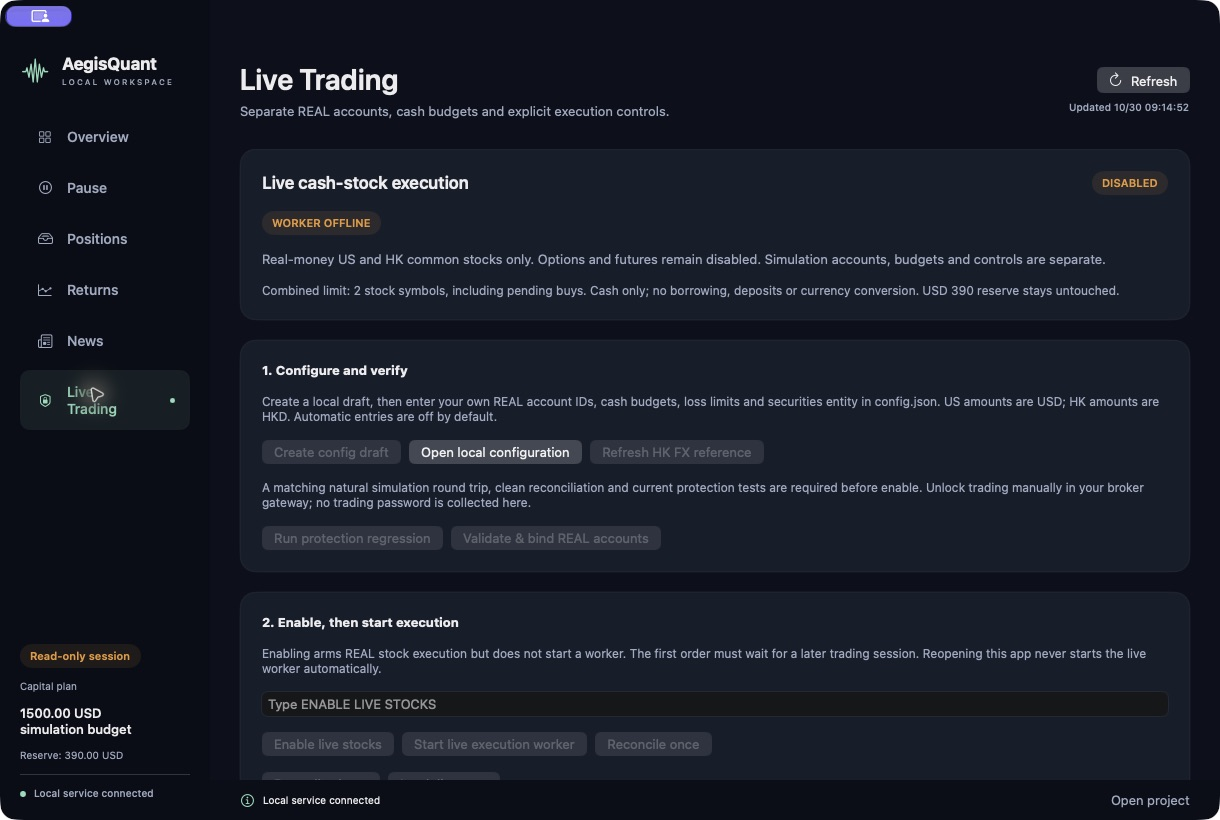
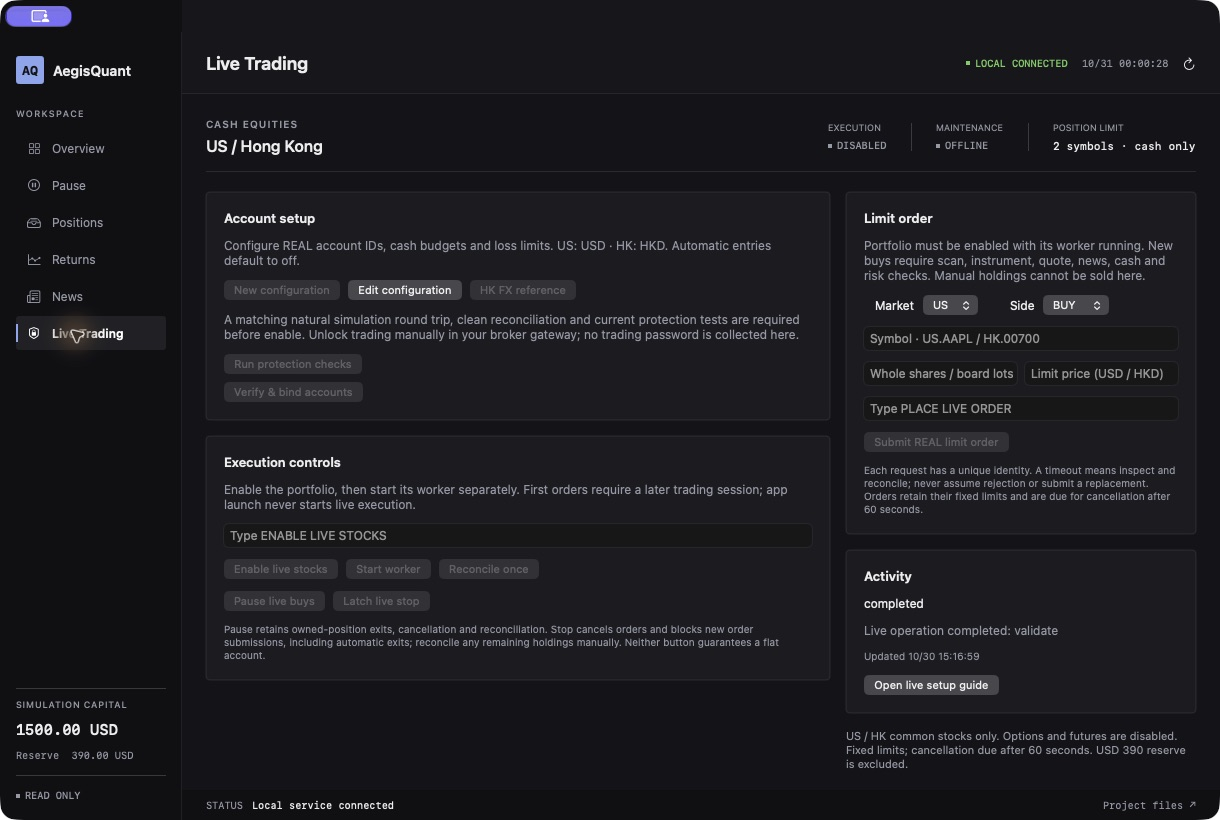
Refine native console into a compact securities workspace

diff --git a/desktop/QuantDesktop.swift b/desktop/QuantDesktop.swift
@@ -2,10 +2,10 @@ import SwiftUI
 import Charts
 import AppKit
 
-let navy = Color(red:0.035,green:0.065,blue:0.105)
-let panel = Color(red:0.075,green:0.115,blue:0.17)
-let mint = Color(red:0.38,green:0.88,blue:0.72)
-let muted = Color(red:0.60,green:0.67,blue:0.76)
+let navy = Color(red:0.075,green:0.080,blue:0.090)
+let panel = Color(red:0.105,green:0.112,blue:0.125)
+let mint = Color(red:0.46,green:0.65,blue:0.94)
+let muted = Color(red:0.57,green:0.60,blue:0.65)
 func string(_ x: Any?) -> String { x as? String ?? "—" }
 func number(_ x: Any?) -> Double { (x as? NSNumber)?.doubleValue ?? 0 }
 func list(_ x: Any?) -> [[String:Any]] { x as? [[String:Any]] ?? [] }
@@ -104,16 +104,17 @@ enum Page: String, CaseIterable {
 
 struct Badge: View {
     var text:String;var color:Color=mint
-    var body:some View {Text(text).font(.system(size:11,weight:.semibold)).foregroundStyle(color).padding(.horizontal,10).padding(.vertical,5).background(color.opacity(0.10),in:Capsule())}
+    var body:some View {HStack(spacing:5){Rectangle().fill(color).frame(width:4,height:4);Text(text).font(.system(size:10,weight:.medium,design:.monospaced))}.foregroundStyle(color)}
 }
 struct Box<Content:View>:View {
     @ViewBuilder var content:Content
-    var body:some View {VStack(alignment:.leading,spacing:16){content}.padding(22).frame(maxWidth:.infinity,alignment:.leading).background(panel,in:RoundedRectangle(cornerRadius:16)).overlay(RoundedRectangle(cornerRadius:16).stroke(.white.opacity(0.055)))}
+    var body:some View {VStack(alignment:.leading,spacing:12){content}.padding(18).frame(maxWidth:.infinity,alignment:.leading).background(panel,in:RoundedRectangle(cornerRadius:4)).overlay(RoundedRectangle(cornerRadius:4).stroke(.white.opacity(0.09)))}
 }
 struct Metric:View {
     var title:String;var value:String;var note:String
-    var body:some View {Box {Text(title).font(.system(size:12)).foregroundStyle(muted);Text(value).font(.system(size:29,weight:.semibold,design:.rounded)).monospacedDigit();Text(note).font(.system(size:11)).foregroundStyle(muted)}}
+    var body:some View {VStack(alignment:.leading,spacing:8){Text(title.uppercased()).font(.system(size:10,weight:.medium)).tracking(0.7).foregroundStyle(muted);Text(value).font(.system(size:25,weight:.medium,design:.monospaced)).monospacedDigit();Text(note).font(.system(size:11)).foregroundStyle(muted).lineLimit(2)}.padding(16).frame(maxWidth:.infinity,alignment:.leading).background(panel).overlay(alignment:.leading){Rectangle().fill(.white.opacity(0.12)).frame(width:1)}}
 }
+
 struct Empty:View {
     var icon:String;var title:String;var detail:String
     var body:some View {VStack(spacing:14){Image(systemName:icon).font(.system(size:32,weight:.light)).foregroundStyle(mint);Text(title).font(.title3.weight(.medium));Text(detail).font(.callout).foregroundStyle(muted).multilineTextAlignment(.center).frame(maxWidth:460)}.frame(maxWidth:.infinity).padding(.vertical,48)}
@@ -136,30 +137,38 @@ struct MainView: View {
     var probe:[String:Any] {object(m.data["probe"])}
     var body: some View {
         HStack(spacing:0){
-            VStack(alignment:.leading,spacing:28){
-                HStack(spacing:11){Image(systemName:"waveform.path").font(.title).foregroundStyle(mint);VStack(alignment:.leading,spacing:3){Text("AegisQuant").font(.system(size:17,weight:.bold));Text("LOCAL WORKSPACE").font(.system(size:8,weight:.medium)).tracking(2).foregroundStyle(muted)}}.padding(.top,22)
-                VStack(spacing:8){ForEach(Page.allCases,id:\.self){p in Button {page=p} label:{HStack(spacing:12){Image(systemName:p.icon).frame(width:20);Text(p.rawValue).font(.system(size:14,weight:.medium));Spacer();if page==p {Circle().fill(mint).frame(width:5,height:5)}}.padding(.horizontal,15).padding(.vertical,13).foregroundStyle(page==p ? mint:muted).background(page==p ? mint.opacity(0.09):.clear,in:RoundedRectangle(cornerRadius:10))}.buttonStyle(.plain)}}
+            VStack(alignment:.leading,spacing:0){
+                HStack(spacing:9){Text("AQ").font(.system(size:13,weight:.bold,design:.monospaced)).foregroundStyle(navy).frame(width:28,height:28).background(mint,in:RoundedRectangle(cornerRadius:3));Text("AegisQuant").font(.system(size:14,weight:.semibold))}.padding(.vertical,24)
+                Text("WORKSPACE").font(.system(size:9,weight:.medium)).tracking(1.2).foregroundStyle(muted).padding(.bottom,12)
+                VStack(spacing:3){ForEach(Page.allCases,id:\.self){p in Button {page=p} label:{HStack(spacing:10){Image(systemName:p.icon).font(.system(size:12)).frame(width:16);Text(p.rawValue).font(.system(size:12,weight:page==p ? .semibold:.regular));Spacer()}.padding(.horizontal,10).frame(height:34).foregroundStyle(page==p ? Color.white:muted).background(page==p ? Color.white.opacity(0.07):.clear,in:RoundedRectangle(cornerRadius:3)).overlay(alignment:.leading){if page==p {Rectangle().fill(mint).frame(width:2).padding(.vertical,8)}}}.buttonStyle(.plain)}}
                 Spacer()
-                VStack(alignment:.leading,spacing:12){Badge(text:m.readOnly ? "Read-only session" : "LIVE "+liveStatus(m.data["live"]),color:.orange);Text(yes(object(m.data["funding"])["shared_capital"]) ? "Stocks / options budget":"Capital plan").font(.caption).foregroundStyle(muted);Text(money(m.data["simulation_total_budget_usd"] ?? m.data["budget_usd"])+" USD simulation budget").font(.system(size:13,weight:.medium));Text("Reserve: "+money(object(m.data["funding"])["reserve_usd"])+" USD").font(.caption).foregroundStyle(muted);Divider();HStack{Circle().fill(m.connected ? mint:.orange).frame(width:6,height:6);Text(m.connected ? "Local service connected":"Connecting to local service").font(.caption2).foregroundStyle(muted)}}.padding(.bottom,20)
-            }.padding(.horizontal,20).frame(width:210).background(Color.black.opacity(0.20))
+                VStack(alignment:.leading,spacing:10){
+                    Divider()
+                    Text("SIMULATION CAPITAL").font(.system(size:9,weight:.medium)).tracking(0.7).foregroundStyle(muted)
+                    Text(money(m.data["simulation_total_budget_usd"] ?? m.data["budget_usd"])+" USD").font(.system(size:15,weight:.medium,design:.monospaced))
+                    Text("Reserve  "+money(object(m.data["funding"])["reserve_usd"])+" USD").font(.system(size:10,design:.monospaced)).foregroundStyle(muted)
+                    Divider().padding(.vertical,3)
+                    Badge(text:m.readOnly ? "READ ONLY" : "LIVE "+liveStatus(m.data["live"]),color:m.readOnly ? muted:.orange)
+                }.padding(.bottom,18)
+            }.padding(.horizontal,16).frame(width:182).background(Color.black.opacity(0.18)).overlay(alignment:.trailing){Rectangle().fill(.white.opacity(0.07)).frame(width:1)}
             VStack(spacing:0){
-                HStack{VStack(alignment:.leading,spacing:7){Text(page.rawValue).font(.system(size:29,weight:.semibold));Text(page.subtitle).font(.system(size:13)).foregroundStyle(muted)};Spacer();VStack(alignment:.trailing,spacing:8){Button {m.refresh()} label:{Label("Refresh",systemImage:"arrow.clockwise")}.buttonStyle(.bordered);Text("Updated "+localTime(m.data["updated_at"])).font(.caption2).foregroundStyle(muted)}}.padding(30)
+                HStack(spacing:14){Text(page.rawValue).font(.system(size:18,weight:.semibold));Spacer();Badge(text:m.connected ? "LOCAL CONNECTED":"LOCAL OFFLINE",color:m.connected ? Color.green:muted);Text(localTime(m.data["updated_at"])).font(.system(size:10,design:.monospaced)).foregroundStyle(muted);Button {m.refresh()} label:{Image(systemName:"arrow.clockwise").font(.system(size:12))}.buttonStyle(.plain).help("Refresh local status")}.padding(.horizontal,24).frame(height:62).background(panel.opacity(0.4)).overlay(alignment:.bottom){Rectangle().fill(.white.opacity(0.07)).frame(height:1)}
                 ScrollView {VStack(alignment:.leading,spacing:20){
                     if !m.error.isEmpty {Box{Label(m.error,systemImage:"exclamationmark.triangle").foregroundStyle(.orange);Button("Reconnect local service"){m.startBackend();m.refresh()}}}
                     switch page {case .start:startPage;case .pause:pausePage;case .positions:positionsPage;case .returns:returnsPage;case .news:newsPage;case .live:livePage}
-                }.padding(.horizontal,30).padding(.bottom,30)}
-                HStack{Image(systemName:"info.circle").foregroundStyle(mint);Text(m.message).font(.caption).lineLimit(2);Spacer();Button("Open project"){m.openFolder("")}.buttonStyle(.plain).foregroundStyle(muted)}.padding(.horizontal,30).padding(.vertical,12).background(.black.opacity(0.14))
+                }.padding(24)}
+                HStack(spacing:8){Text("STATUS").foregroundStyle(muted);Text(m.message).lineLimit(1);Spacer();Button("Project files ↗"){m.openFolder("")}.buttonStyle(.plain).foregroundStyle(muted)}.font(.system(size:10,design:.monospaced)).padding(.horizontal,24).frame(height:30).background(.black.opacity(0.18))
             }
         }.background(navy).foregroundStyle(.white.opacity(0.92)).frame(minWidth:1060,minHeight:740).preferredColorScheme(.dark)
     }
     func actionButton(_ title:String,_ action:String,primary:Bool=false)->some View {
-        Button {m.action(action)} label:{Text(title).font(.system(size:13,weight:.semibold)).padding(.horizontal,16).padding(.vertical,11).background(primary ? mint:Color.white.opacity(0.07),in:RoundedRectangle(cornerRadius:9)).foregroundStyle(primary ? navy:.white)}.buttonStyle(.plain).disabled(m.readOnly || m.busy || !m.connected)
+        Button {m.action(action)} label:{Text(title).font(.system(size:13,weight:.semibold)).padding(.horizontal,16).padding(.vertical,11).background(primary ? mint:Color.white.opacity(0.07),in:RoundedRectangle(cornerRadius:3)).foregroundStyle(primary ? navy:.white)}.buttonStyle(.plain).disabled(m.readOnly || m.busy || !m.connected)
     }
     var startPage:some View {
         VStack(spacing:20){
             HStack(spacing:14){Metric(title:"Simulation budget",value:money(m.data["simulation_total_budget_usd"] ?? m.data["budget_usd"]),note:yes(m.data["independent_budget_display"]) ? "US stocks / US options / HK stocks: USD 500 each" : "USD · subject to ledger allocation");Metric(title:"Daily history coverage",value:"\(Int(number(scan["history_count"])))",note:"At least 60 completed daily bars");Metric(title:"Current candidates",value:"\(Int(number(scan["candidate_count"] ?? list(m.data["candidates"]).count)))",note:"Candidates are not buy instructions")}
             Box {
-                HStack{VStack(alignment:.leading,spacing:7){Text("Prepare, then simulate").font(.title2.weight(.semibold));Text("Market scans, external news and simulation acceptance run separately. Live stock controls are separate in Live Trading.") .font(.callout).foregroundStyle(muted)};Spacer();Image(systemName:"arrow.up.right.circle").font(.system(size:42,weight:.ultraLight)).foregroundStyle(mint)}
+                HStack{VStack(alignment:.leading,spacing:7){Text("Simulation operations").font(.system(size:15,weight:.semibold));Text("Market scans, external news and simulation acceptance run separately. Live stock controls are separate in Live Trading.") .font(.callout).foregroundStyle(muted)};Spacer()}
                 HStack(spacing:12){actionButton(m.running("scan") ? "Scan in progress":"Run supplemental scan","prepare",primary:true);actionButton(string(probe["status"]) == "transport_passed" ? "Transport acceptance passed":m.running("probe") ? "Simulation acceptance running":"Start / resume simulation acceptance","probe");Spacer()}
                 HStack(spacing:8){Badge(text:scanActivityLabel,color:m.running("automation") || m.running("scan") ? mint:muted);Badge(text:m.running("news") ? "News monitoring":"News offline",color:m.running("news") ? mint:muted);Badge(text:m.running("strategy") ? "Strategy simulation running":m.running("probe") ? "Transport test running":string(probe["status"]) == "transport_passed" ? "Transport acceptance passed":"Transport test offline",color:(m.running("strategy") || m.running("probe")) ? mint:muted)}
                 if m.running("automation") {
@@ -359,38 +368,40 @@ struct MainView: View {
     var livePage:some View {
         let live=object(m.data["live"])
         return VStack(alignment:.leading,spacing:20){
-            Box {
-                HStack {Text("Live cash-stock execution").font(.title2.weight(.semibold));Spacer();
-                    Badge(text:liveStatus(live),color:.orange)}
-                Badge(text:m.running("live_runner") ? "WORKER RUNNING":"WORKER OFFLINE",color:m.running("live_runner") ? mint:.orange)
-                Text("Real-money US and HK common stocks only. Options and futures remain disabled. Simulation accounts, budgets and controls are separate.").foregroundStyle(muted)
-                Text("Combined limit: 2 stock symbols, including pending buys. Cash only; no borrowing, deposits or currency conversion. USD 390 reserve stays untouched.").font(.callout).foregroundStyle(muted)
-                if yes(live["loss_latched"]) {Label("Joint loss limit is latched. New buys cannot be resumed here.",systemImage:"exclamationmark.triangle").foregroundStyle(.orange)}
-            }
-            Box {
-                Text("1. Configure and verify").font(.headline)
-                Text("Create a local draft, then enter your own REAL account IDs, cash budgets, loss limits and securities entity in config.json. US amounts are USD; HK amounts are HKD. Automatic entries are off by default.").font(.callout).foregroundStyle(muted)
-                HStack {liveButton("Create config draft","template");Button("Open local configuration"){m.openFolder("data/trading/live/config.json")};liveButton("Refresh HK FX reference","refresh_fx")}
-                Text("A matching natural simulation round trip, clean reconciliation and current protection tests are required before enable. Unlock trading manually in your broker gateway; no trading password is collected here.").font(.callout).foregroundStyle(muted)
-                HStack {liveButton("Run protection regression","validate");liveButton("Validate & bind REAL accounts","prepare")}
+            HStack(spacing:24){
+                VStack(alignment:.leading,spacing:6){Text("CASH EQUITIES").font(.system(size:10,weight:.semibold)).tracking(1).foregroundStyle(muted);Text("US / Hong Kong").font(.system(size:16,weight:.medium))}
+                Spacer()
+                VStack(alignment:.leading,spacing:6){Text("EXECUTION").font(.system(size:9)).foregroundStyle(muted);Badge(text:liveStatus(live),color:yes(live["enabled"]) ? Color.green:muted)}
+                Divider().frame(height:28)
+                VStack(alignment:.leading,spacing:6){Text("MAINTENANCE").font(.system(size:9)).foregroundStyle(muted);Badge(text:m.running("live_runner") ? "RUNNING":"OFFLINE",color:m.running("live_runner") ? Color.green:muted)}
+                Divider().frame(height:28)
+                VStack(alignment:.leading,spacing:6){Text("POSITION LIMIT").font(.system(size:9)).foregroundStyle(muted);Text("2 symbols · cash only").font(.system(size:11,design:.monospaced))}
+            }.padding(.bottom,16).overlay(alignment:.bottom){Rectangle().fill(.white.opacity(0.1)).frame(height:1)}
+            if yes(live["loss_latched"]) {Label("Joint loss limit latched · new buys blocked",systemImage:"exclamationmark.triangle").foregroundStyle(.orange)}
+            HStack(alignment:.top,spacing:16){
+                VStack(alignment:.leading,spacing:16){
+                    Box {Text("Account setup").font(.system(size:13,weight:.semibold))
+                Text("Configure REAL account IDs, cash budgets and loss limits. US: USD · HK: HKD. Automatic entries default to off.").font(.system(size:12)).foregroundStyle(muted)
+                HStack {liveButton("New configuration","template");Button("Edit configuration"){m.openFolder("data/trading/live/config.json")};liveButton("HK FX reference","refresh_fx")}
+                Text("A matching natural simulation round trip, clean reconciliation and current protection tests are required before enable. Unlock trading manually in your broker gateway; no trading password is collected here.").font(.system(size:12)).foregroundStyle(muted)
+                VStack(alignment:.leading,spacing:8){liveButton("Run protection checks","validate");liveButton("Verify & bind accounts","prepare")}
                 ForEach(Array(list(live["markets"]).enumerated()),id:\.offset) { _,row in
-                    Text(string(row["market"])+" · "+money(row["budget_native"])+" "+string(row["currency"])+" · pending "+String(Int(number(row["pending"])))+" · alerts "+String(Int(number(row["alerts"])))).font(.callout).monospacedDigit()
+                    Text(string(row["market"])+" · "+money(row["budget_native"])+" "+string(row["currency"])+" · pending "+String(Int(number(row["pending"])))+" · alerts "+String(Int(number(row["alerts"])))).font(.system(size:12)).monospacedDigit()
                     ForEach(Array(list(row["positions"]).enumerated()),id:\.offset) { _,position in
-                        Text("Owned: "+string(position["code"])+" · "+money(position["qty"])+" shares").font(.callout)
+                        Text("Owned: "+string(position["code"])+" · "+money(position["qty"])+" shares").font(.system(size:12))
                     }
                     ForEach(Array(list(row["orders"]).enumerated()),id:\.offset) { _,order in
                         Text(string(order["side"])+" "+string(order["code"])+" · "+money(order["filled"])+" / "+money(order["qty"])+" · limit "+money(order["limit"])+" "+string(row["currency"])+" · "+string(order["status"])+(yes(order["cancel_requested"]) ? " · CANCEL REQUESTED":"")+(yes(order["fee_final"]) ? "":" · FEES PENDING")).font(.caption).foregroundStyle(muted)
                     }
                 }
             }
-            Box {
-                Text("2. Enable, then start execution").font(.headline)
-                Text("Enabling arms REAL stock execution but does not start a worker. The first order must wait for a later trading session. Reopening this app never starts the live worker automatically.").font(.callout).foregroundStyle(muted)
+                    Box {Text("Execution controls").font(.system(size:13,weight:.semibold))
+                Text("Enable the portfolio, then start its worker separately. First orders require a later trading session; app launch never starts live execution.").font(.system(size:12)).foregroundStyle(muted)
                 TextField("Type ENABLE LIVE STOCKS",text:$liveConfirmation).textFieldStyle(.roundedBorder)
                 HStack {
                     Button("Enable live stocks") {m.liveAction(["action":"enable","confirmation":liveConfirmation]);liveConfirmation=""}
                         .disabled(m.readOnly || !m.connected || m.busy || liveConfirmation != "ENABLE LIVE STOCKS")
-                    liveButton("Start live execution worker","start")
+                    liveButton("Start worker","start")
                     liveButton("Reconcile once","maintain")
                 }.buttonStyle(.bordered)
                 HStack {
@@ -399,14 +410,15 @@ struct MainView: View {
                 }.buttonStyle(.bordered).disabled(m.readOnly || !m.connected)
                 Text("Pause retains owned-position exits, cancellation and reconciliation. Stop cancels orders and blocks new order submissions, including automatic exits; reconcile any remaining holdings manually. Neither button guarantees a flat account.").font(.caption).foregroundStyle(muted)
             }
-            Box {
-                Text("3. Explicit limit-order ticket").font(.headline)
-                Text("Requires an armed portfolio and a running maintenance worker. New buys must also pass the completed scan, stock identity, fresh bid/ask, news, cash and joint-risk checks. Manual holdings cannot be sold here.").font(.callout).foregroundStyle(muted)
+                }.frame(maxWidth:.infinity)
+                VStack(alignment:.leading,spacing:16){
+                    Box {Text("Limit order").font(.system(size:13,weight:.semibold))
+                Text("Portfolio must be enabled with its worker running. New buys require scan, instrument, quote, news, cash and risk checks. Manual holdings cannot be sold here.").font(.system(size:12)).foregroundStyle(muted)
                 HStack {
-                    Picker("Market",selection:$liveMarket){Text("US").tag("US");Text("HK").tag("HK")}.frame(width:160)
-                    Picker("Side",selection:$liveSide){Text("BUY").tag("BUY");Text("SELL").tag("SELL")}.frame(width:160)
-                    TextField("US.AAPL / HK.00700",text:$liveCode).textFieldStyle(.roundedBorder)
+                    Picker("Market",selection:$liveMarket){Text("US").tag("US");Text("HK").tag("HK")}.frame(width:125)
+                    Picker("Side",selection:$liveSide){Text("BUY").tag("BUY");Text("SELL").tag("SELL")}.frame(width:125)
                 }
+                TextField("Symbol · US.AAPL / HK.00700",text:$liveCode).textFieldStyle(.roundedBorder)
                 HStack {TextField("Whole shares / board lots",text:$liveQuantity);TextField("Limit price (USD / HKD)",text:$liveLimit)}.textFieldStyle(.roundedBorder)
                 TextField("Type PLACE LIVE ORDER",text:$orderConfirmation).textFieldStyle(.roundedBorder)
                 Button("Submit REAL limit order") {
@@ -414,15 +426,18 @@ struct MainView: View {
                 }.buttonStyle(.bordered).disabled(m.readOnly || !m.connected || m.busy || orderConfirmation != "PLACE LIVE ORDER")
                 Text("Each request has a unique identity. A timeout means inspect and reconcile; never assume rejection or submit a replacement. Orders retain their fixed limits and are due for cancellation after 60 seconds.").font(.caption).foregroundStyle(muted)
             }
-            Box {
-                Text("Latest live operation").font(.headline)
+                    Box {Text("Activity").font(.system(size:13,weight:.semibold))
                 let report=object(live["report"])
                 Text(string(report["status"]));Text(string(report["message"])).foregroundStyle(muted)
                 Text("Updated "+localTime(report["checked_at"])).font(.caption).foregroundStyle(muted)
                 Button("Open live setup guide"){m.openFolder("docs/live-trading.md")}
             }
-        }
+                    Text("US / HK common stocks only. Options and futures are disabled. Fixed limits; cancellation due after 60 seconds. USD 390 reserve is excluded.").font(.system(size:11)).foregroundStyle(muted)
+                }.frame(width:350)
+            }
+        }.font(.system(size:12)).controlSize(.small)
     }
+
     func sourceName(_ s:String)->String { ["fed_policy":"Federal Reserve · policy","fed_speech":"Federal Reserve · speeches","whitehouse":"White House","bbc_business":"BBC Business","reuters_index":"Reuters · public index","x":"X" ][s] ?? s }
     func actionName(_ s:String)->String { ["observe":"Unverified / watch","reduce":"Reduce new-entry allocation","block":"Buy cooldown rules"][s] ?? "Watch" }
 }

diff --git a/README.en.md b/README.en.md
@@ -21,14 +21,14 @@ Publication does not establish live readiness, completed execution acceptance or
 
 ![Live Trading controls in the English macOS application, execution disabled](docs/images/aegisquant-live-controls-en.png)
 
-The actual English macOS **Live Trading** page, showing securities account configuration, validation, explicit enable and execution controls. Live execution is disabled and its worker is offline in this capture; no real order was submitted. The USD 1,500 sidebar amount belongs to the separate simulation budget, not live funds or account equity.
+The actual English macOS **Live Trading** workspace with a two-column layout, showing securities account configuration, validation, explicit enable and execution controls. Live execution is disabled and its worker is offline in this capture; no real order was submitted. The USD 1,500 sidebar amount belongs to the separate simulation budget, not live funds or account equity.
 
 
-### Live limit-order ticket
+### News monitoring
 
-![English live limit-order ticket](docs/images/aegisquant-live-ticket-en.png)
+![English news monitoring workspace](docs/images/aegisquant-news-en.png)
 
-The actual application’s order preparation and per-order confirmation panel. Live execution remains disabled in this capture; no real order was submitted.
+Source health, search and the news list in the actual application. This capture retains historical news and expired-source states; its collector is offline and the feed is not live.
 
 ### Simulation overview and strategy status
 
@@ -101,7 +101,7 @@ The **Reconcile once** operation services reconciliation and due cancellations o
 
 Follow the [step-by-step live guide](docs/live-trading.md) before any account operation. The live path uses the original daily-trend engine; the simulation ATR swing engine has not been promoted to live execution.
 
-![Live limit-order ticket in the English application, execution disabled](docs/images/aegisquant-live-ticket-en.png)
+Account setup, execution controls and the limit-order ticket now share one screen; see the Live Trading workspace above.
 
 ## Connect your securities API
 

diff --git a/README.md b/README.md
@@ -21,14 +21,14 @@ Publication does not establish live readiness, completed execution acceptance or
 
 ![Live Trading controls in the English macOS application, execution disabled](docs/images/aegisquant-live-controls-en.png)
 
-The actual English macOS **Live Trading** page, showing securities account configuration, validation, explicit enable and execution controls. Live execution is disabled and its worker is offline in this capture; no real order was submitted. The USD 1,500 sidebar amount belongs to the separate simulation budget, not live funds or account equity.
+The actual English macOS **Live Trading** workspace with a two-column layout, showing securities account configuration, validation, explicit enable and execution controls. Live execution is disabled and its worker is offline in this capture; no real order was submitted. The USD 1,500 sidebar amount belongs to the separate simulation budget, not live funds or account equity.
 
 
-### Live limit-order ticket
+### News monitoring
 
-![English live limit-order ticket](docs/images/aegisquant-live-ticket-en.png)
+![English news monitoring workspace](docs/images/aegisquant-news-en.png)
 
-The actual application’s order preparation and per-order confirmation panel. Live execution remains disabled in this capture; no real order was submitted.
+Source health, search and the news list in the actual application. This capture retains historical news and expired-source states; its collector is offline and the feed is not live.
 
 ### Simulation overview and strategy status
 
@@ -101,7 +101,7 @@ The **Reconcile once** operation services reconciliation and due cancellations o
 
 Follow the [step-by-step live guide](docs/live-trading.md) before any account operation. The live path uses the original daily-trend engine; the simulation ATR swing engine has not been promoted to live execution.
 
-![Live limit-order ticket in the English application, execution disabled](docs/images/aegisquant-live-ticket-en.png)
+Account setup, execution controls and the limit-order ticket now share one screen; see the Live Trading workspace above.
 
 ## Connect your securities API
 

diff --git a/docs/verification.md b/docs/verification.md
@@ -35,4 +35,9 @@ The public repository now contains the securities console and its supporting too
 
 ### Homepage screenshot selection
 
-The first screenshot in all three README editions now shows the actual English Live Trading controls; the live execution section shows the actual limit-order ticket. The simulation Overview is no longer the homepage screenshot. Both captures retain the disabled/offline state and do not claim a connected REAL account or real fills.
+The first screenshot in all three README editions now shows the actual English Live Trading controls; the gallery also shows news monitoring and the simulation overview. The simulation Overview is no longer the homepage screenshot. Both captures retain the disabled/offline state and do not claim a connected REAL account or real fills.
+
+
+### Native workspace layout review · 2026-10-31
+
+The native SwiftUI application builds successfully with a compact graphite layout, shared status bar and a two-column Live Trading workspace. Existing action payloads and disabled guards were compared with the previous source and preserved. Screenshots were captured from the built application using a local status service with POST rejected and AEGIS_READ_ONLY=1. No execution worker or broker connection was started. News and simulation records are historical. This presentation-only change does not change the Python protection fingerprint or provide REAL execution acceptance.

diff --git a/docs/live-trading.zh-CN.md b/docs/live-trading.zh-CN.md
@@ -61,7 +61,7 @@ US 金额为 USD，HK 金额为 HKD。联合亏损上限必须为正数且不超
 
 ## 4. 限价单与状态核对
 
-![Live limit-order ticket, disabled](images/aegisquant-live-ticket-en.png)
+![Live Trading workspace and limit-order ticket, disabled](images/aegisquant-live-controls-en.png)
 
 已启用且后台运行时，在 **Explicit limit-order ticket** 填市场、股票代码、方向、整股/整手数量及原币限价，输入 `PLACE LIVE ORDER` 后提交。买入仍需通过完整前一交易日扫描、合格做多信号、品种、报价、新闻、现金、持仓和联合亏损检查。卖出只能处置本实盘账本拥有的持仓。
 

diff --git a/docs/live-trading.md b/docs/live-trading.md
@@ -72,7 +72,7 @@ If you enable `automatic_entries`, the running worker may create REAL orders whe
 
 ## 4. Submit and inspect a limit-order ticket
 
-![Live limit-order ticket, disabled](images/aegisquant-live-ticket-en.png)
+![Live Trading workspace and limit-order ticket, disabled](images/aegisquant-live-controls-en.png)
 
 With an armed portfolio and a running worker, enter the market, stock code, BUY/SELL, whole shares/board-lot quantity and native-currency limit price. Type `PLACE LIVE ORDER` and submit. A SELL can close only a position owned by the live strategy; it cannot sell a manual baseline holding or create a short.
 
